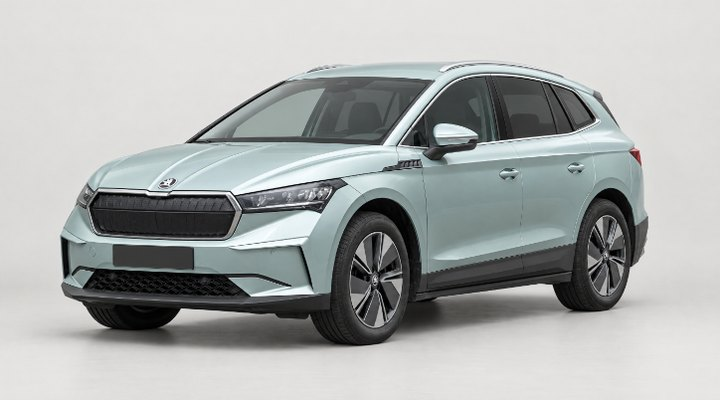
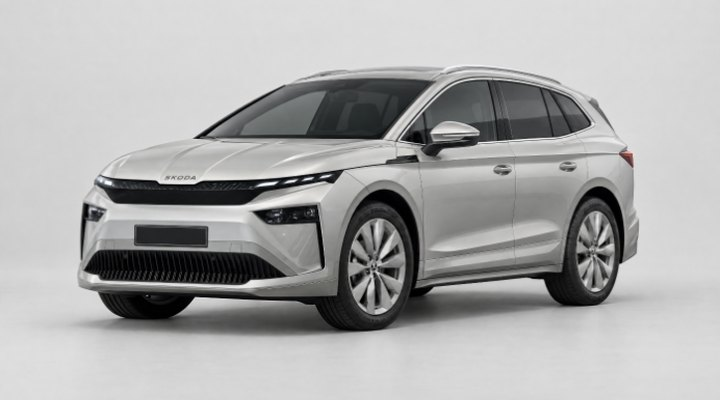
Guide cards: one set of studio thumbnails (35, vd-*-480.webp, CARD_IMG); six EV models in their current facelift (ID.3 Neo, EV6, E-208, ë-C4, Enyaq, Mokka) from newer Commons photos; old PNG cut-outs removed; RUNBOOK 3.5b/3.13, /izmene/ 28.10, EN/RU
Claude-Session: https://claude.ai/code/session_01HL5jVHS1fvBhwvMfvmgoMg

diff --git a/build.py b/build.py
@@ -1287,6 +1287,55 @@ VODICI_GROUPS = [
         A('/podaci/statistika-ev-srbija/', icon='chart'), A('/podaci/tarife-eps/', 'Cena struje kod kuće', icon='bolt'),
         A('/podaci/wallbox-modeli/', 'Wallbox modeli i cene', icon='plug')]),
 ]
+# one set of guide-card thumbnails in the same studio style (28.10.2026, RUNBOOK 3.13): static/assets/img/vd-<name>-480.webp
+CARD_IMG = {
+    "/punjenje-elektricnog-auta-u-zgradi": "vd-zgrada",
+    "/punjac-u-zgradi-skupstina": "vd-skupstina",
+    "/ko-placa-struju-za-punjenje": "vd-ko-placa",
+    "/alati/racun-u-zgradi/": "vd-racun-zgrada",
+    "/bezbednost-punjenja-atest": "vd-bezbednost",
+    "/punjac-u-iznajmljenoj-garazi": "vd-iznajmljena-garaza",
+    "/elektricni-auto-bez-garaze": "vd-bez-garaze",
+    "/wallbox-cena-srbija": "vd-wallbox-cena",
+    "/elektricni-automobili/": "vd-ev-hub",
+    "/elektricni-automobili/polovni/": "vd-polovni",
+    "/podaci/subvencije-2026/": "vd-subvencije",
+    "/podaci/cene-elektricnih-automobila/": "vd-cene-ev",
+    "/podaci/registracija-i-porezi/": "vd-registracija",
+    "/podaci/uvoz-i-carina/": "vd-uvoz",
+    "/podaci/osiguranje-elektricnog-automobila/": "vd-osiguranje",
+    "/podaci/krediti-i-lizing/": "vd-krediti",
+    "/podaci/provera-baterije-polovnog-elektricnog-auta/": "vd-baterija",
+    "/podaci/servisi-za-elektricne-automobile/": "vd-servisi",
+    "/podaci/rent-a-car-i-car-sharing/": "vd-rent",
+    "/najam-elektricnog-automobila": "vd-najam",
+    "/javno-punjenje/prvo-punjenje-na-javnom-punjacu/": "vd-prvo-punjenje",
+    "/javno-punjenje/ccs2-type2-chademo-gbt/": "vd-utikac",
+    "/javno-punjenje/zasto-auto-puni-sporo-na-brzom-punjacu/": "vd-sporo",
+    "/javno-punjenje/kako-jeftinije-puniti/": "vd-jeftinije",
+    "/javno-punjenje/plug-in-hibrid-na-javnom-punjacu/": "vd-phev",
+    "/javno-punjenje/cena-punjenja-po-modelu/": "vd-cena-po-modelu",
+    "/podaci/putarina-i-parking/": "vd-putarina",
+    "/javno-punjenje/besplatni-punjaci/": "vd-besplatni",
+    "/javno-punjenje/aplikacije-i-kartice/": "vd-aplikacije",
+    "/javno-punjenje/region/": "vd-region",
+    "/podaci/pomoc-na-putu/": "vd-pomoc",
+    "/javno-punjenje/smestaj-sa-punjacem/": "vd-smestaj",
+    "/podaci/statistika-ev-srbija/": "vd-statistika",
+    "/podaci/tarife-eps/": "vd-tarife",
+    "/podaci/wallbox-modeli/": "vd-wallbox-modeli"
+}
+
+
+def card_imgs(items):
+    for it in items:
+        if it.get('href') in CARD_IMG:
+            it['img'] = CARD_IMG[it['href']]
+    return items
+
+
+for _, _items in VODICI_GROUPS:
+    card_imgs(_items)
 CENE_TILES = [
     {'href': '/javno-punjenje/', 'name': 'Javno punjenje', 'desc': 'Cene po mrežama, po minutu i po kWh, i besplatni punjači.', 'icon': 'bolt'},
     {'href': '/cena-punjaca-za-elektricni-auto', 'name': 'Kućni punjač sa ugradnjom', 'desc': 'Koliko traže firme i šta ulazi u ugradnju.', 'icon': 'plug'},
@@ -2327,6 +2376,7 @@ HOME_GUIDES = [
     {'href': '/podaci/tarife-eps/', 'name': 'Cena struje kod kuće', 'desc': 'Zone, tarife i kada počinje jeftinija struja.', 'icon': 'bolt', 'img': 'stambeni-blokovi-sunce'},
     {'href': '/bezbednost-punjenja-atest', 'name': 'Bezbednost i atest', 'desc': 'Zašto ne produžni kabl i šta proverava atest.', 'icon': 'shield', 'img': 'elektricar-atest'},
 ]
+card_imgs(HOME_GUIDES)
 render('home.html', '/', HOME_GUIDES=HOME_GUIDES, NEWS_HOME=NEWS[:3], section='', n_auto=len(AUTO_OFFICIAL),
        title='BlokVolt: punjači, cene i firme za električne automobile u Srbiji',
        description=f"Mapa sa {MAP['n']} javnih punjača i cenama, {sr_plural(len(published), 'firma', 'firme', 'firmi')} za kućni punjač, cene struje i javnog punjenja, subvencije i vodiči za električni auto u Srbiji.")

diff --git a/content/podaci/cene-elektricnih-automobila.md b/content/podaci/cene-elektricnih-automobila.md
@@ -72,12 +72,12 @@ Cene su najniže koje uvoznici objavljuju, ponegde akcijske. Sve verzije, izvori
 | <span class="evm"><img class="evm-i" src="/assets/auto/volvo-ex30.jpg?v=2a81102d" alt="" width="360" height="200" loading="lazy" decoding="async"><span class="evm-t">Volvo EX30<small>Nordic Edition, Extended Range</small></span></span> | 34.990 € | 29.990 € | [sajt prodavca](https://beograd.volvocars.rs/nova_vozila/view/ex30-787)<small>provereno 24.10.2026</small> |
 | <span class="evm"><img class="evm-i" src="/assets/auto/kia-niro-ev.jpg?v=f308979d" alt="" width="360" height="200" loading="lazy" decoding="async"><span class="evm-t">Kia Niro EV<small>EX Limited Edition, 64,8 kWh</small></span></span> | 34.999 €<small>računica: uvoznik objavljuje 29.999 € sa uračunatom subvencijom</small> | 29.999 €<small>cena uvoznika</small> | [sajt uvoznika](https://www.kia.rs/akcija)<small>provereno 24.10.2026; PDV nije naveden</small> |
 | <span class="evm"><img class="evm-i" src="/assets/auto/byd-atto-3-evo.jpg?v=2f68e1d4" alt="" width="360" height="200" loading="lazy" decoding="async"><span class="evm-t">BYD Atto 3 Evo<small>Design RWD</small></span></span> | 36.250 € | 31.250 € | [sajt uvoznika](https://byd-auto.rs/modeli/byd-atto-3-evo/)<small>provereno 22.09.2026; PDV nije naveden</small> |
-| <span class="evm"><img class="evm-i" src="/assets/auto/citroen-e-c4.jpg?v=d6db1ec1" alt="" width="360" height="200" loading="lazy" decoding="async"><span class="evm-t">Citroën ë-C4<small>50 kWh</small></span></span> | 36.590 € | 31.590 € | [sajt uvoznika](https://www.citroen.rs/modeli/novi-ec4.html)<small>provereno 22.09.2026; PDV nije naveden</small> |
+| <span class="evm"><img class="evm-i" src="/assets/auto/citroen-e-c4.jpg?v=8a204b01" alt="" width="360" height="200" loading="lazy" decoding="async"><span class="evm-t">Citroën ë-C4<small>50 kWh</small></span></span> | 36.590 € | 31.590 € | [sajt uvoznika](https://www.citroen.rs/modeli/novi-ec4.html)<small>provereno 22.09.2026; PDV nije naveden</small> |
 | <span class="evm"><img class="evm-i" src="/assets/auto/fiat-600e.jpg?v=50c2e1b5" alt="" width="360" height="200" loading="lazy" decoding="async"><span class="evm-t">Fiat 600e<small>RED 54 kWh (115 kW)</small></span></span> | 36.990 € | 31.990 € | [cenovnik](https://www.fiat.rs/content/dam/fiat2023/rs/cenovnici-i-brosure/cenovnik-fiat-600BEV.pdf)<small>cenovnik 12.02.2025 (stariji)</small> |
 | <span class="evm"><img class="evm-i" src="/assets/auto/citroen-e-c4-x.jpg?v=03356da3" alt="" width="360" height="200" loading="lazy" decoding="async"><span class="evm-t">Citroën ë-C4 X<small>50 kWh</small></span></span> | 37.390 € | 32.390 € | [sajt uvoznika](https://www.citroen.rs/modeli/novi-ec4x.html)<small>provereno 22.09.2026; PDV nije naveden</small> |
 | <span class="evm"><img class="evm-i" src="/assets/auto/mini-cooper-j01.jpg?v=9c710ed2" alt="" width="360" height="200" loading="lazy" decoding="async"><span class="evm-t">MINI Cooper E<small>E 184 KS</small></span></span> | 37.638 € | 32.638 € | [cenovnik](https://www.mini.rs/content/dam/MINI/marketUV4/mini_rs/Offers/cenovnik/MINI_Cenovnik.pdf.asset.1781269642218.pdf)<small>cenovnik 01.06.2026</small> |
-| <span class="evm"><img class="evm-i" src="/assets/auto/volkswagen-id-3.jpg?v=d5ff6843" alt="" width="360" height="200" loading="lazy" decoding="async"><span class="evm-t">Volkswagen ID.3 Neo</span></span> | 38.826 € | 33.826 € | [sajt uvoznika](https://www.volkswagen.rs/modeli-i-konfigurator/svi-modeli)<small>provereno 22.09.2026</small> |
-| <span class="evm"><img class="evm-i" src="/assets/auto/peugeot-e-208.jpg?v=f519d0ec" alt="" width="360" height="200" loading="lazy" decoding="async"><span class="evm-t">Peugeot E-208<small>Style 50 kWh (100 kW / 136 KS)</small></span></span> | 38.890 € | 33.890 € | [cenovnik](https://www.peugeot.rs/Cenovnik%20208%2003.26.pdf)<small>cenovnik 01.11.2025</small> |
+| <span class="evm"><img class="evm-i" src="/assets/auto/volkswagen-id-3.jpg?v=a3a67876" alt="" width="360" height="200" loading="lazy" decoding="async"><span class="evm-t">Volkswagen ID.3 Neo</span></span> | 38.826 € | 33.826 € | [sajt uvoznika](https://www.volkswagen.rs/modeli-i-konfigurator/svi-modeli)<small>provereno 22.09.2026</small> |
+| <span class="evm"><img class="evm-i" src="/assets/auto/peugeot-e-208.jpg?v=0d2731e3" alt="" width="360" height="200" loading="lazy" decoding="async"><span class="evm-t">Peugeot E-208<small>Style 50 kWh (100 kW / 136 KS)</small></span></span> | 38.890 € | 33.890 € | [cenovnik](https://www.peugeot.rs/Cenovnik%20208%2003.26.pdf)<small>cenovnik 01.11.2025</small> |
 | <span class="evm"><img class="evm-i" src="/assets/auto/toyota-c-hr.jpg?v=45eb9af0" alt="" width="360" height="200" loading="lazy" decoding="async"><span class="evm-t">Toyota C-HR+<small>Executive 57,7 kWh FWD (123 kW)</small></span></span> | 38.990 € | 33.990 € | [cenovnik](https://www.toyotaadria.com/rs/pdf/cenovnik_vozila/2026/october/CHR+_0210.pdf)<small>cenovnik 14.09.2026</small> |
 | <span class="evm"><img class="evm-i" src="/assets/auto/mini-aceman.jpg?v=2dfd7656" alt="" width="360" height="200" loading="lazy" decoding="async"><span class="evm-t">MINI Aceman<small>E 184 KS</small></span></span> | 40.096 € | 35.096 € | [cenovnik](https://www.mini.rs/content/dam/MINI/marketUV4/mini_rs/Offers/cenovnik/MINI_Cenovnik.pdf.asset.1781269642218.pdf)<small>cenovnik 01.06.2026</small> |
 | <span class="evm"><img class="evm-i" src="/assets/auto/byd-seal.jpg?v=e37cc007" alt="" width="360" height="200" loading="lazy" decoding="async"><span class="evm-t">BYD Seal<small>Design RWD</small></span></span> | 40.490 € | 35.490 € | [sajt uvoznika](https://byd-auto.rs/modeli/byd-seal/)<small>provereno 22.09.2026; PDV nije naveden</small> |
@@ -92,7 +92,7 @@ Cene su najniže koje uvoznici objavljuju, ponegde akcijske. Sve verzije, izvori
 | <span class="evm"><img class="evm-i" src="/assets/auto/byd-sealion-7.jpg?v=fb1d2d12" alt="" width="360" height="200" loading="lazy" decoding="async"><span class="evm-t">BYD Sealion 7<small>Design</small></span></span> | 44.590 € | 39.590 € | [sajt uvoznika](https://byd-auto.rs/modeli/byd-sealion-7/)<small>provereno 22.09.2026; PDV nije naveden</small> |
 | <span class="evm"><img class="evm-i" src="/assets/auto/ford-capri.jpg?v=5c502223" alt="" width="360" height="200" loading="lazy" decoding="async"><span class="evm-t">Ford Capri<small>Style 58 kWh</small></span></span> | 45.990 €<small>u cenovniku i „akcijska cena“ 40.990 €</small> | 40.990 €<small>= akcijska cena; cenovnik ne kaže da li je to subvencija</small> | [cenovnik](https://ford.rs/media_assets/71f46cf3-4d53-4797-b9f9-23aa06ea7030)<small>cenovnik 04.2026</small> |
 | <span class="evm"><img class="evm-i" src="/assets/auto/jeep-compass.jpg?v=9f8e401b" alt="" width="360" height="200" loading="lazy" decoding="async"><span class="evm-t">Jeep Compass Electric<small>Altitude</small></span></span> | 46.990 €<small>akcija; redovna 47.990 €</small> | 41.990 € | [cenovnik](https://www.jeep.rs/content/dam/jeep/rs/brochure/Cenovnik-Novi-Jeep-Compass-MY26.pdf)<small>cenovnik 01.10.2026</small> |
-| <span class="evm"><img class="evm-i" src="/assets/auto/skoda-enyaq.jpg?v=49ccb131" alt="" width="360" height="200" loading="lazy" decoding="async"><span class="evm-t">Škoda Enyaq<small>60 (61 kWh, 140 kW)</small></span></span> | 47.300 € | 42.300 € | [cenovnik](https://www.skoda-auto.rs/_doc/65ab371e-8f75-45ed-8178-7e7731283bc6)<small>cenovnik MY2027, bez datuma</small> |
+| <span class="evm"><img class="evm-i" src="/assets/auto/skoda-enyaq.jpg?v=fa097149" alt="" width="360" height="200" loading="lazy" decoding="async"><span class="evm-t">Škoda Enyaq<small>60 (61 kWh, 140 kW)</small></span></span> | 47.300 € | 42.300 € | [cenovnik](https://www.skoda-auto.rs/_doc/65ab371e-8f75-45ed-8178-7e7731283bc6)<small>cenovnik MY2027, bez datuma</small> |
 | <span class="evm"><img class="evm-i" src="/assets/auto/toyota-bz4x-touring.jpg?v=593fa947" alt="" width="360" height="200" loading="lazy" decoding="async"><span class="evm-t">Toyota bZ4X Touring</span></span> | 47.490 € | 42.490 € | [sajt uvoznika](https://www.toyota.rs/new-cars/bz4x-touring)<small>provereno 22.09.2026; PDV nije naveden</small> |
 | <span class="evm"><img class="evm-i" src="/assets/auto/hyundai-ioniq-6.jpg?v=ae07e059" alt="" width="360" height="200" loading="lazy" decoding="async"><span class="evm-t">Hyundai IONIQ 6<small>53 kWh RWD Premium (151 KS)</small></span></span> | 47.990 € | 42.990 € | [cenovnik](https://www.hyundai.rs/upload/document/ioniq_6.pdf)<small>cenovnik 11.09.2025 (stariji)</small> |
 | <span class="evm"><img class="evm-i" src="/assets/auto/hyundai-ioniq-5.jpg?v=ad8252aa" alt="" width="360" height="200" loading="lazy" decoding="async"><span class="evm-t">Hyundai IONIQ 5<small>najniža cena u cenovniku</small></span></span> | 48.990 € | 43.990 € | [cenovnik](https://www.hyundai.rs/upload/document/ioniq_5.pdf)<small>cenovnik 11.09.2025 (stariji)</small> |
@@ -215,7 +215,7 @@ Slike modela su studijske ilustracije, napravljene alatom veštačke inteligenci
 <li><b>BYD Sealion 7</b> — LuvsMG481, <a href="https://creativecommons.org/licenses/by-sa/4.0" rel="nofollow noopener">CC BY-SA 4.0</a>, <a href="https://commons.wikimedia.org/wiki/File:2025_BYD_Sealion_7_Performance_front.jpg" rel="nofollow noopener">Wikimedia Commons</a></li>
 <li><b>Citroën ë-C3</b> — Alexander Migl, <a href="https://creativecommons.org/licenses/by-sa/4.0" rel="nofollow noopener">CC BY-SA 4.0</a>, <a href="https://commons.wikimedia.org/wiki/File:Citroen_%C3%AB-C3_IMG_4539.jpg" rel="nofollow noopener">Wikimedia Commons</a></li>
 <li><b>Citroën ë-C3 Aircross</b> — Alexander Migl, <a href="https://creativecommons.org/licenses/by-sa/4.0" rel="nofollow noopener">CC BY-SA 4.0</a>, <a href="https://commons.wikimedia.org/wiki/File:Citro%C3%ABn_C3_Aircross_(2024)_DSC_8767.jpg" rel="nofollow noopener">Wikimedia Commons</a></li>
-<li><b>Citroën ë-C4</b> — © M 93, <a href="https://creativecommons.org/licenses/by-sa/3.0/de/deed.en" rel="nofollow noopener">CC BY-SA 3.0 de</a>, <a href="https://commons.wikimedia.org/wiki/File:Citro%C3%ABn_%C3%AB-C4_Feel_(III)_%E2%80%93_f_14042024.jpg" rel="nofollow noopener">Wikimedia Commons</a></li>
+<li><b>Citroën ë-C4</b> — Matti Blume, <a href="https://creativecommons.org/licenses/by-sa/4.0" rel="nofollow noopener">CC BY-SA 4.0</a>, <a href="https://commons.wikimedia.org/wiki/File:Citroen_e-C4,_Auto_2025,_Zurich_(20251029-P1074554).jpg" rel="nofollow noopener">Wikimedia Commons</a></li>
 <li><b>Citroën ë-C4 X</b> — Alexander-93, <a href="https://creativecommons.org/licenses/by-sa/4.0" rel="nofollow noopener">CC BY-SA 4.0</a>, <a href="https://commons.wikimedia.org/wiki/File:Citro%C3%ABn_e-C4_X_Automesse_Ludwigsburg_2023_1X7A0016.jpg" rel="nofollow noopener">Wikimedia Commons</a></li>
 <li><b>CUPRA Raval</b> — Alexander Migl, <a href="https://creativecommons.org/licenses/by-sa/4.0" rel="nofollow noopener">CC BY-SA 4.0</a>, <a href="https://commons.wikimedia.org/wiki/File:Cupra_Raval_VZ_IMG_8811.jpg" rel="nofollow noopener">Wikimedia Commons</a></li>
 <li><b>Dacia Spring</b> — Alexander-93, <a href="https://creativecommons.org/licenses/by-sa/4.0" rel="nofollow noopener">CC BY-SA 4.0</a>, <a href="https://commons.wikimedia.org/wiki/File:2024_Dacia_Spring_Extreme_DSC_6037.jpg" rel="nofollow noopener">Wikimedia Commons</a></li>
@@ -258,7 +258,7 @@ Slike modela su studijske ilustracije, napravljene alatom veštačke inteligenci
 <li><b>MINI Cooper E</b> — Ethan Llamas, <a href="https://creativecommons.org/licenses/by-sa/4.0" rel="nofollow noopener">CC BY-SA 4.0</a>, <a href="https://commons.wikimedia.org/wiki/File:Mini_Cooper_S_Electric_J01_Classic_Chili_Red_-_front.jpg" rel="nofollow noopener">Wikimedia Commons</a></li>
 <li><b>MINI Countryman E</b> — Ethan Llamas, <a href="https://creativecommons.org/licenses/by-sa/4.0" rel="nofollow noopener">CC BY-SA 4.0</a>, <a href="https://commons.wikimedia.org/wiki/File:Mini_Countryman_S_Electric_U25_Classic_ALL4_Melting_Silver_-_front.jpg" rel="nofollow noopener">Wikimedia Commons</a></li>
 <li><b>Peugeot E-2008</b> — Damian B Oh, <a href="https://creativecommons.org/licenses/by-sa/4.0" rel="nofollow noopener">CC BY-SA 4.0</a>, <a href="https://commons.wikimedia.org/wiki/File:Peugeot_e-2008_GT_P24_Onyx_Black_(1).jpg" rel="nofollow noopener">Wikimedia Commons</a></li>
-<li><b>Peugeot E-208</b> — Vauxford, <a href="https://creativecommons.org/licenses/by-sa/4.0" rel="nofollow noopener">CC BY-SA 4.0</a>, <a href="https://commons.wikimedia.org/wiki/File:2020_Peugeot_e-208_Allure_Front.jpg" rel="nofollow noopener">Wikimedia Commons</a></li>
+<li><b>Peugeot E-208</b> — Alexander-93, <a href="https://creativecommons.org/licenses/by-sa/4.0" rel="nofollow noopener">CC BY-SA 4.0</a>, <a href="https://commons.wikimedia.org/wiki/File:Peugeot_e-208_facelift_1X7A2502.jpg" rel="nofollow noopener">Wikimedia Commons</a></li>
 <li><b>Peugeot E-3008</b> — Alexander-93, <a href="https://creativecommons.org/licenses/by-sa/4.0" rel="nofollow noopener">CC BY-SA 4.0</a>, <a href="https://commons.wikimedia.org/wiki/File:Peugeot_e-3008_Automesse_Ludwigsburg_2024_IMG_1537.jpg" rel="nofollow noopener">Wikimedia Commons</a></li>
 <li><b>Peugeot E-5008</b> — Alexander-93, <a href="https://creativecommons.org/licenses/by-sa/4.0" rel="nofollow noopener">CC BY-SA 4.0</a>, <a href="https://commons.wikimedia.org/wiki/File:Peugeot_5008_C_Automesse_Ludwigsburg_2024_IMG_1452.jpg" rel="nofollow noopener">Wikimedia Commons</a></li>
 <li><b>Renault 4 E-Tech electric</b> — Y.Leclercq, <a href="https://creativecommons.org/licenses/by-sa/4.0" rel="nofollow noopener">CC BY-SA 4.0</a>, <a href="https://commons.wikimedia.org/wiki/File:Renault_4_E-Tech_Electric_-_02_(cropped).jpg" rel="nofollow noopener">Wikimedia Commons</a></li>
@@ -269,7 +269,7 @@ Slike modela su studijske ilustracije, napravljene alatom veštačke inteligenci
 <li><b>Toyota C-HR+</b> — © M 93, <a href="https://creativecommons.org/licenses/by-sa/3.0/de/deed.en" rel="nofollow noopener">CC BY-SA 3.0 de</a>, <a href="https://commons.wikimedia.org/wiki/File:Toyota_C-HR%2B_Teamplayer_%E2%80%93_f_05042026.jpg" rel="nofollow noopener">Wikimedia Commons</a></li>
 <li><b>Toyota Proace City Verso Electric</b> — © M 93, <a href="https://creativecommons.org/licenses/by-sa/3.0/de/deed.en" rel="nofollow noopener">CC BY-SA 3.0 de</a>, <a href="https://commons.wikimedia.org/wiki/File:Toyota_Proace_City_Verso_L2_Electric_Executive_%E2%80%93_f_20102024.jpg" rel="nofollow noopener">Wikimedia Commons</a></li>
 <li><b>Volkswagen ID. Polo</b> — Alexander Migl, <a href="https://creativecommons.org/licenses/by-sa/4.0" rel="nofollow noopener">CC BY-SA 4.0</a>, <a href="https://commons.wikimedia.org/wiki/File:Volkswagen_ID.Polo_IMG_8361.jpg" rel="nofollow noopener">Wikimedia Commons</a></li>
-<li><b>Volkswagen ID.3 Neo</b> — Alexander-93, <a href="https://creativecommons.org/licenses/by-sa/4.0" rel="nofollow noopener">CC BY-SA 4.0</a>, <a href="https://commons.wikimedia.org/wiki/File:Volkswagen_ID.3_(2023)_IMG_7972.jpg" rel="nofollow noopener">Wikimedia Commons</a></li>
+<li><b>Volkswagen ID.3 Neo</b> — Alexander Migl, <a href="https://creativecommons.org/licenses/by-sa/4.0" rel="nofollow noopener">CC BY-SA 4.0</a>, <a href="https://commons.wikimedia.org/wiki/File:Volkswagen_ID.3_Neo_IMG_7255.jpg" rel="nofollow noopener">Wikimedia Commons</a></li>
 <li><b>Volkswagen ID.4</b> — John Kalinga, <a href="https://creativecommons.org/licenses/by-sa/4.0" rel="nofollow noopener">CC BY-SA 4.0</a>, <a href="https://commons.wikimedia.org/wiki/File:2021_Volkswagen_ID.4_Front.jpg" rel="nofollow noopener">Wikimedia Commons</a></li>
 <li><b>Volkswagen ID.5</b> — Vauxford, <a href="https://creativecommons.org/licenses/by-sa/4.0" rel="nofollow noopener">CC BY-SA 4.0</a>, <a href="https://commons.wikimedia.org/wiki/File:2022_Volkswagen_ID.5.jpg" rel="nofollow noopener">Wikimedia Commons</a></li>
 <li><b>Volkswagen ID.7</b> — Alexander Migl, <a href="https://creativecommons.org/licenses/by-sa/4.0" rel="nofollow noopener">CC BY-SA 4.0</a>, <a href="https://commons.wikimedia.org/wiki/File:Volkswagen_ID.7_DSC_7879_(cropped).jpg" rel="nofollow noopener">Wikimedia Commons</a></li>
@@ -279,7 +279,7 @@ Slike modela su studijske ilustracije, napravljene alatom veštačke inteligenci
 <li><b>Volvo EX60</b> — Alexander Migl, <a href="https://creativecommons.org/licenses/by-sa/4.0" rel="nofollow noopener">CC BY-SA 4.0</a>, <a href="https://commons.wikimedia.org/wiki/File:Volvo_EX60_IMG_8339.jpg" rel="nofollow noopener">Wikimedia Commons</a></li>
 <li><b>Volvo EX90</b> — Alexander-93, <a href="https://creativecommons.org/licenses/by-sa/4.0" rel="nofollow noopener">CC BY-SA 4.0</a>, <a href="https://commons.wikimedia.org/wiki/File:Volvo_EX90_Auto_Zuerich_2024_DSC_6147.jpg" rel="nofollow noopener">Wikimedia Commons</a></li>
 <li><b>Škoda Elroq</b> — Alexander Migl, <a href="https://creativecommons.org/licenses/by-sa/4.0" rel="nofollow noopener">CC BY-SA 4.0</a>, <a href="https://commons.wikimedia.org/wiki/File:%C5%A0koda_Elroq_DSC_9260.jpg" rel="nofollow noopener">Wikimedia Commons</a></li>
-<li><b>Škoda Enyaq</b> — Alexander-93, <a href="https://creativecommons.org/licenses/by-sa/4.0" rel="nofollow noopener">CC BY-SA 4.0</a>, <a href="https://commons.wikimedia.org/wiki/File:%C5%A0koda_Enyaq_IMG_1190.jpg" rel="nofollow noopener">Wikimedia Commons</a></li>
+<li><b>Škoda Enyaq</b> — Ssu, <a href="https://creativecommons.org/licenses/by-sa/4.0" rel="nofollow noopener">CC BY-SA 4.0</a>, <a href="https://commons.wikimedia.org/wiki/File:2025_Skoda_Enyaq_sportline_(facelift)_-_front.jpg" rel="nofollow noopener">Wikimedia Commons</a></li>
 <li><b>Škoda Enyaq Coupé</b> — Alexander-93, <a href="https://creativecommons.org/licenses/by-sa/4.0" rel="nofollow noopener">CC BY-SA 4.0</a>, <a href="https://commons.wikimedia.org/wiki/File:%C5%A0koda_Enyaq_Coup%C3%A9_RS_1X7A0851.jpg" rel="nofollow noopener">Wikimedia Commons</a></li>
 </ul>
 

diff --git a/docs/RUNBOOK.md b/docs/RUNBOOK.md
@@ -255,6 +255,11 @@ Rules, non-negotiable:
 - Same frame for all: front three-quarter, nose on the left, whole car at ~72 % of the width, same
   light-grey studio background, no plate, no text, no people.
 
+When Commons has no photo of the current version (facelift), the owner allows (28.10.2026) a photo from the
+manufacturer's or importer's own website as the reference; the credit then names that page instead of a Commons
+file. Prefer Commons whenever it has the current version (28.10: ID.3 Neo, EV6, E-208, ë-C4, Enyaq were found
+there; IONIQ 5 stays — hyundai.rs itself still shows the pre-facelift car).
+
 How it is done (27.10.2026, 122 models, 2.75 credits each):
 1. Import the source into Higgsfield with `media_import_url` using the Commons 1920 px thumbnail
    (`/wikipedia/commons/thumb/X/XY/<File>/1920px-<File>`; the original URL often answers 429; when the
@@ -899,6 +904,12 @@ Video: `content/data/video.json` (id, title, channel, poster = an illustration n
 YouTube oEmbed through WebFetch). `yt(id)` / `[[yt:ID]]` renders a poster; `bv.js` creates the
 youtube-nocookie iframe only after a click (privacy policy promise — never embed a live iframe).
 
+
+Guide cards (/vodici/, home "Vodiči", 28.10.2026): one set of thumbnails `static/assets/img/vd-<name>-480.webp`
+(480x360, 4:3), mapped by URL in `CARD_IMG` in `build.py` (it overrides `thumb:`/`image:` for the card only; the
+article keeps its own hero image). Style — studio still life on a light-grey background, an object or the same
+generic white scale-model car (no brand look-alikes: generate with the existing model car as `image_references`),
+no text, no logos. A new guide on a hub gets its own `vd-` thumbnail in the same style.
 ### 3.14 Company updates (/za-firme/) and corrections (/ispravka/)
 
 Both forms post to `/api/zahtev` (stored in D1 `requests`). Readers come first and companies last (owner's decision,

diff --git a/content/podaci/izmene.md b/content/podaci/izmene.md
@@ -15,6 +15,8 @@ disclaimer: Propuštenu izmenu ili grešku prijavite na
 
 - [Mapa punjača](/mapa/): mesečna provera svih punjača. Osveženi su spiskovi mreže Charge&GO i njene roming mape: tri lokacije koje Charge&GO više ne navodi (OMV Zrenjanin, OMV Šabac i jedna od dve lokacije DeLasol u Lapovu) skinute su sa mape, a dva punjača kojih više nema na roming mapi (Kia centar Subotica, AC Brajić u Šapcu) sada su „Nije potvrđeno“. Nova na mapi su dva punjača sa roming mape: eDrive u Valjevu (Hajduk Veljkova 30) i AC punjač u Ražnju. Po proveri na Google mapama potvrđeni su punjači kod IKEA u Beogradu, Lidl na Zlatiboru, Ledi MS u Novoj Pazovi i ProCredit u Novom Sadu (ocene vozača iz poslednjih 12 meseci), a jedan punjač u centru Beograda bez novijih ocena prešao je u „Nije potvrđeno“. Spiskovi Tesle su bez promena.
 - [Državni punjači na autoputevima](/javno-punjenje/putevi-srbije/): po spisku JP „Putevi Srbije“ od 22. oktobra radi 27 od 36 punjača (ranije 24). Ponovo rade punjač na naplatnoj stanici Stara Pazova i oba punjača na naplatnoj stanici Kruševac istok, koja je sada i na mapi.
+- [Vodiči](/vodici/) i početna strana: sve kartice vodiča imaju nove sličice u istom stilu — predmet ili umanjeni model automobila na svetloj pozadini, bez marki.
+- [Električni automobili](/elektricni-automobili/): Volkswagen ID.3 Neo, Kia EV6, Peugeot E-208, Citroën ë-C4, Škoda Enyaq i Opel Mokka Electric sada su prikazani u aktuelnoj verziji (posle osvežavanja modela), prema novijim fotografijama sa Wikimedia Commonsa.
 - [Mapa punjača](/mapa/), valuta EUR ili USD: dva punjača mreže Emobility Spectra (Valjevo, Beograd) naplaćuju „jedinicu“ i minut. Njihova cena sada je preračunata i u spisku punjača, u „Najbliži punjač“ i u „Punjači na putu“, a ne samo u kartici punjača.
 
 ## 27. oktobar 2026
